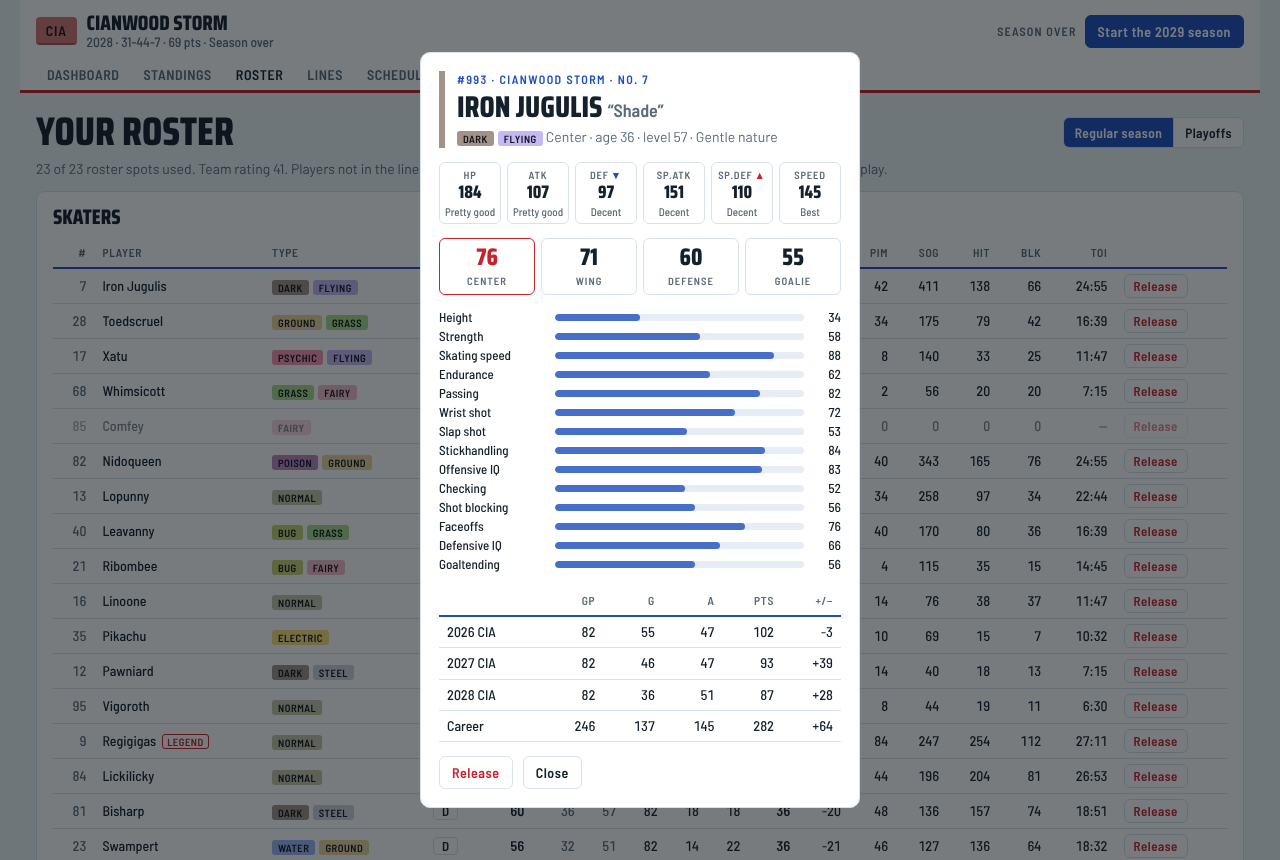
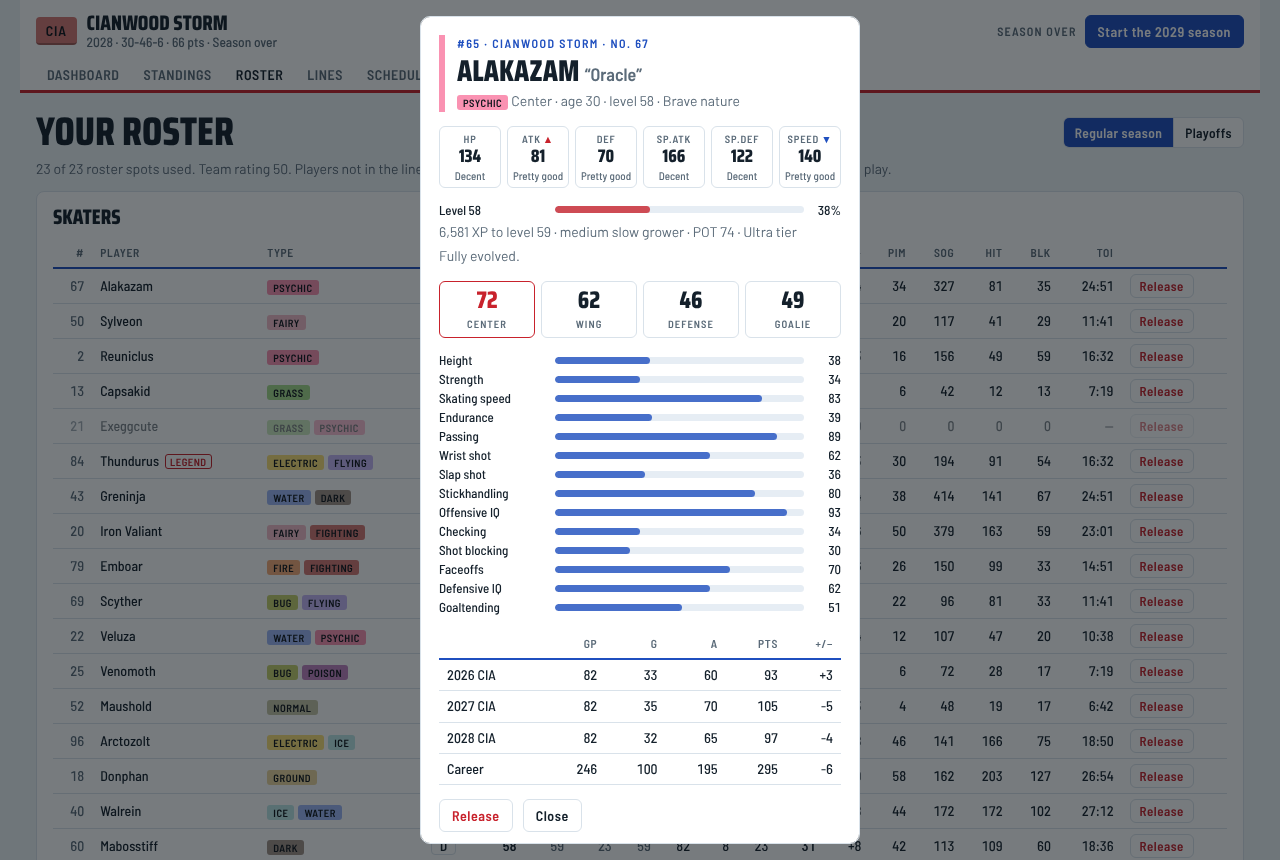
README and screenshots for growth and evolution
Claude-Session: https://claude.ai/code/session_01MDcfyQoVyQCc2MXdYdRPJR

diff --git a/README.md b/README.md
@@ -8,7 +8,7 @@ Each step lands as its own pull request into `master`.
 
 1. **Map Pokémon to hockey** (done): skills, position ratings, teams and league rules.
 2. **A playable single season** (done): league setup, rosters and lines, game simulation, standings and playoffs.
-3. **The franchise layer**, in PRs 3.0 to 3.10: CI foundation (done), seasons that roll over (done), Pokémon as individuals with levels, IVs and natures (done), growth and evolution, aging and retirement, the draft, contracts and the cap, mood and negotiation, free agency, trades, and injuries.
+3. **The franchise layer**, in PRs 3.0 to 3.10: CI foundation (done), seasons that roll over (done), Pokémon as individuals with levels, IVs and natures (done), growth and evolution (in review, merging together with aging and the draft), aging and retirement, the draft, contracts and the cap, mood and negotiation, free agency, trades, and injuries.
 4. Optional: tune the simulation against the original All-22 franchise mode.
 
 ## Getting started
@@ -37,6 +37,7 @@ Start a league from a fixed seed with `http://localhost:4173/?seed=123`. The sam
 3. **Make moves.** Release players and sign any undrafted Pokémon as a free agent, up to 23 players.
 4. **Play.** Advance a day, a week, a month or straight to the playoffs. Every game is simulated in 10-second ticks: the skaters on the ice decide who shoots, blocks, hits and scores, and the goalie's rating decides saves. There are penalties and power plays, late pulled goalies, 3-on-3 overtime and shootouts in the regular season, and sudden-death overtime in the playoffs.
 5. **Win the Cup.** The top eight in each conference play best-of-seven rounds.
+6. **Grow your Pokémon.** Players earn XP from every game and from training camp, level up and evolve. When one of yours can evolve more than one way, you pick which on his card.
 
 The league saves in your browser after every change.
 
@@ -68,6 +69,19 @@ The rest lives in [`src/ratings.js`](src/ratings.js).
 2. **Types add small nudges.** Ice types skate faster, Fire types tire faster on the ice, Psychic types read the play, and so on.
 3. **Skills become a rating at C, W, D and G.** Each position rating is a weighted average of the skills that matter there. A Pokémon's natural position is the one where it rates highest.
 4. **Team strength weights lines by ice time.** The four weakest dressed players then pull the team rating down, as in All-22.
+
+## Growth and evolution
+
+Players grow as in the games ([`src/growth.js`](src/growth.js)).
+
+- **XP.** Every game pays XP for ice time, points and a win, and playoff games pay half again. Training camp before each season adds more. Young players learn fastest: XP is worth 1.5 times as much at 21 and under, and only a fifth after 30. Each species levels on its own experience curve from the games (fast, medium, medium-slow, slow, erratic or fluctuating). Levels past 70 count at half rate for skills.
+- **Potential tier.** Every player has a hidden tier that multiplies his XP: Poké (60% of players, ×1), Great (28%, ×1.25), Ultra (10%, ×1.5) and Master (2%, ×2). After each season the top 5% of players against what their rating predicts have a breakout, which raises the tier of anyone 26 or younger. The bottom 5% have a bust, which lowers it, but never more than one step below where he started.
+- **Evolution.** Level evolutions happen on the level-up that reaches the level. Stone evolutions happen at the next training camp after a breakout season. Friendship evolutions happen at the camp after three seasons on one team. Trade evolutions wait for trades. Species whose method has no hockey meaning yet (a move, a held item) evolve at level 36. A player who evolves keeps his level, IVs and nature. CPU teams pick the branch that rates best at the player's position.
+- **POT.** A player's potential is the best rating his final forms would reach at level 60, or at his level if he is past it, and never below his rating now. You see it exactly for your own players and as a scouting estimate, off by up to four, for everyone else.
+
+The simulator measures every rating against the league's average that day, so a league that grows as a whole keeps scoring like the NHL. Better players still win more.
+
+Until aging and the draft arrive, a league grows a little stronger each season, so the season simulations allow the average rostered player's rating to climb up to 5 points a season. Growth and evolution, aging and retirement, and the draft merge together, and the draft tightens that check back to flat.
 
 ## The league
 
